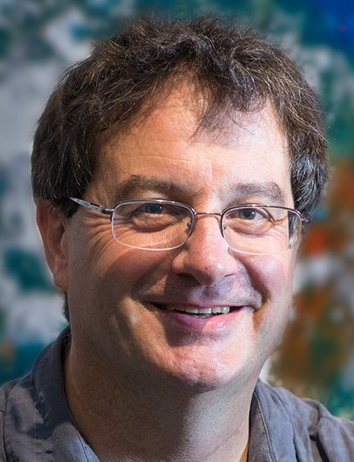
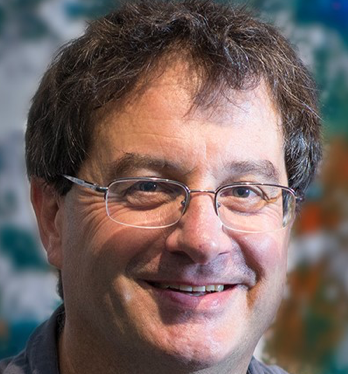
try1

diff --git a/people/vlab_people.html b/people/vlab_people.html
@@ -5,7 +5,7 @@ permalink: /people/vlab_people.html
 ---
 
 
-<div class="container" style="width:800px">
+<div class="container" style="width:700px">
     <div class="people-case">
         <center><h4>Wentzcovitch Group</h4></center>
     </div>
@@ -13,7 +13,7 @@ permalink: /people/vlab_people.html
     <div class="people-case">
         <div class="row">
             <ul>
-                <div class="col-lg-3 col-md-3  col-sm-8 col-xs-8">
+                <div class="col-lg-6 col-md-6  col-sm-8 col-xs-8">
                     <li class="people-name">
                         <h3>{{site.data.rw.name}}</h3>
                     </li>
@@ -23,38 +23,17 @@ permalink: /people/vlab_people.html
                     <li class="people-jobtitle">{{site.data.rw.department}}</li>
                     <li class="people-email"><a href="maito:{{site.data.rw.email}}">{{site.data.rw.email}}</a></li>
                 </div>
-                <div class="col-lg-4 col-md-4  col-sm-4 col-xs-4">
-                    <center>
+                <div class="col-lg-6 col-md-6  col-sm-4 col-xs-4">
+      
                         <li>
                             <div class="people-portrait-cropper"><img
                                     src="{{ site.baseurl }}/{% if site.data.rw.portrait %}{{ site.data.rw.portrait}}{% else %}static/img/portrait_default.png{% endif %}">
                             </div>
                         </li>
-                    </center>
+             
                 </div>
-                <div class="col-lg-5 col-md-5  col-sm-10 col-xs-10 sidebar-container">
-                    <li class="people-description">{{site.data.rw.description}}</li>
-                    {% if site.data.rw.socialmedia %}
-                    <div class="people-socialmedia">
-                        <h5>Links:</h5>
-
-                        {% if site.data.rw.socialmedia.googlescholar %}
-                        <a target="_blank" href={{rw.socialmedia.googlescholar}}><img
-                                src="{{ site.baseurl }}/static/img/scholar_logo_lg.gif" height=40px width=auto></a>
-                        {% endif %}
-
-                        {% if site.data.rw.socialmedia.site %}
-                        <a target="_blank" href={{site.data.rw.socialmedia.site}}>{{site.data.svgbase.site}}</a>
-                        {% endif %}
-
-                        {% if site.data.rw.socialmedia.resume %}
-                        <a target="_blank" href={{site.data.rw.socialmedia.resume}}>{{site.data.svgbase.resume}}</a>
-                        {% endif %}
-
-
-                    </div>
-                    {% endif %}
-                </div>
+                
+               
             </ul>
         </div>
 
@@ -71,11 +50,11 @@ permalink: /people/vlab_people.html
         <div class="people-case ">
             <div class="row">
                 {% for people in site.data.people %}
-                <div class="col-lg-4 col-md-4  col-sm-4 col-xs-6 people-mini">
+                <div class="col-lg-4 col-md-4  col-sm-4 col-xs-6 people-mini-vlab">
                     <ul>
                         <center>
 
-                            <div class="people-portrait-cropper"><img
+                            <div class="people-portrait-cropper-mini"><img
                                     src="{{ site.baseurl }}/{% if people.portrait %}{{ people.portrait}}{% else %}static/img/portrait_default.png{% endif %}">
                             </div>
                             <li class="people-name">
@@ -115,7 +94,7 @@ permalink: /people/vlab_people.html
                 <ul>
                     <center>
     
-                        <div class="people-portrait-cropper"><img
+                        <div class="people-portrait-cropper-mini"><img
                                 src="{{ site.baseurl }}/{% if people.portrait %}{{ people.portrait}}{% else %}static/img/portrait_default.png{% endif %}">
                         </div>
                         <li class="people-name">

diff --git a/static/css/core.css b/static/css/core.css
@@ -1310,9 +1310,29 @@ min-height:600px;
     height: auto;
     position: relative;
     overflow: hidden;
-    display: block;
+    /* display: block; */
 }
 .people-portrait-cropper img{
+    display: block;
+    margin: 0 auto;
+    height: auto;
+    width: 100%; 
+
+    -webkit-border-radius: 50%;
+    -moz-border-radius: 50%;
+    -ms-border-radius: 50%;
+    -o-border-radius: 50%;
+    border-radius: 50%;  
+}
+.people-portrait-cropper-mini {
+    width: 160px;
+    height:160px;
+    height: auto;
+    position: relative;
+    overflow: hidden;
+    display: block;
+}
+.people-portrait-cropper-mini img{
     display: block;
     margin: 0 auto;
     height: auto;
@@ -1377,8 +1397,11 @@ min-height:600px;
 .people-mini{
   min-height:360px;
 }
+.people-mini-vlab{
+  min-height:300px
+}
 .people-mini-colaborator{
-  min-height:410px;
+  min-height:280px;
 }
 .people-switch button:hover svg g{
   fill: #337ab7;
